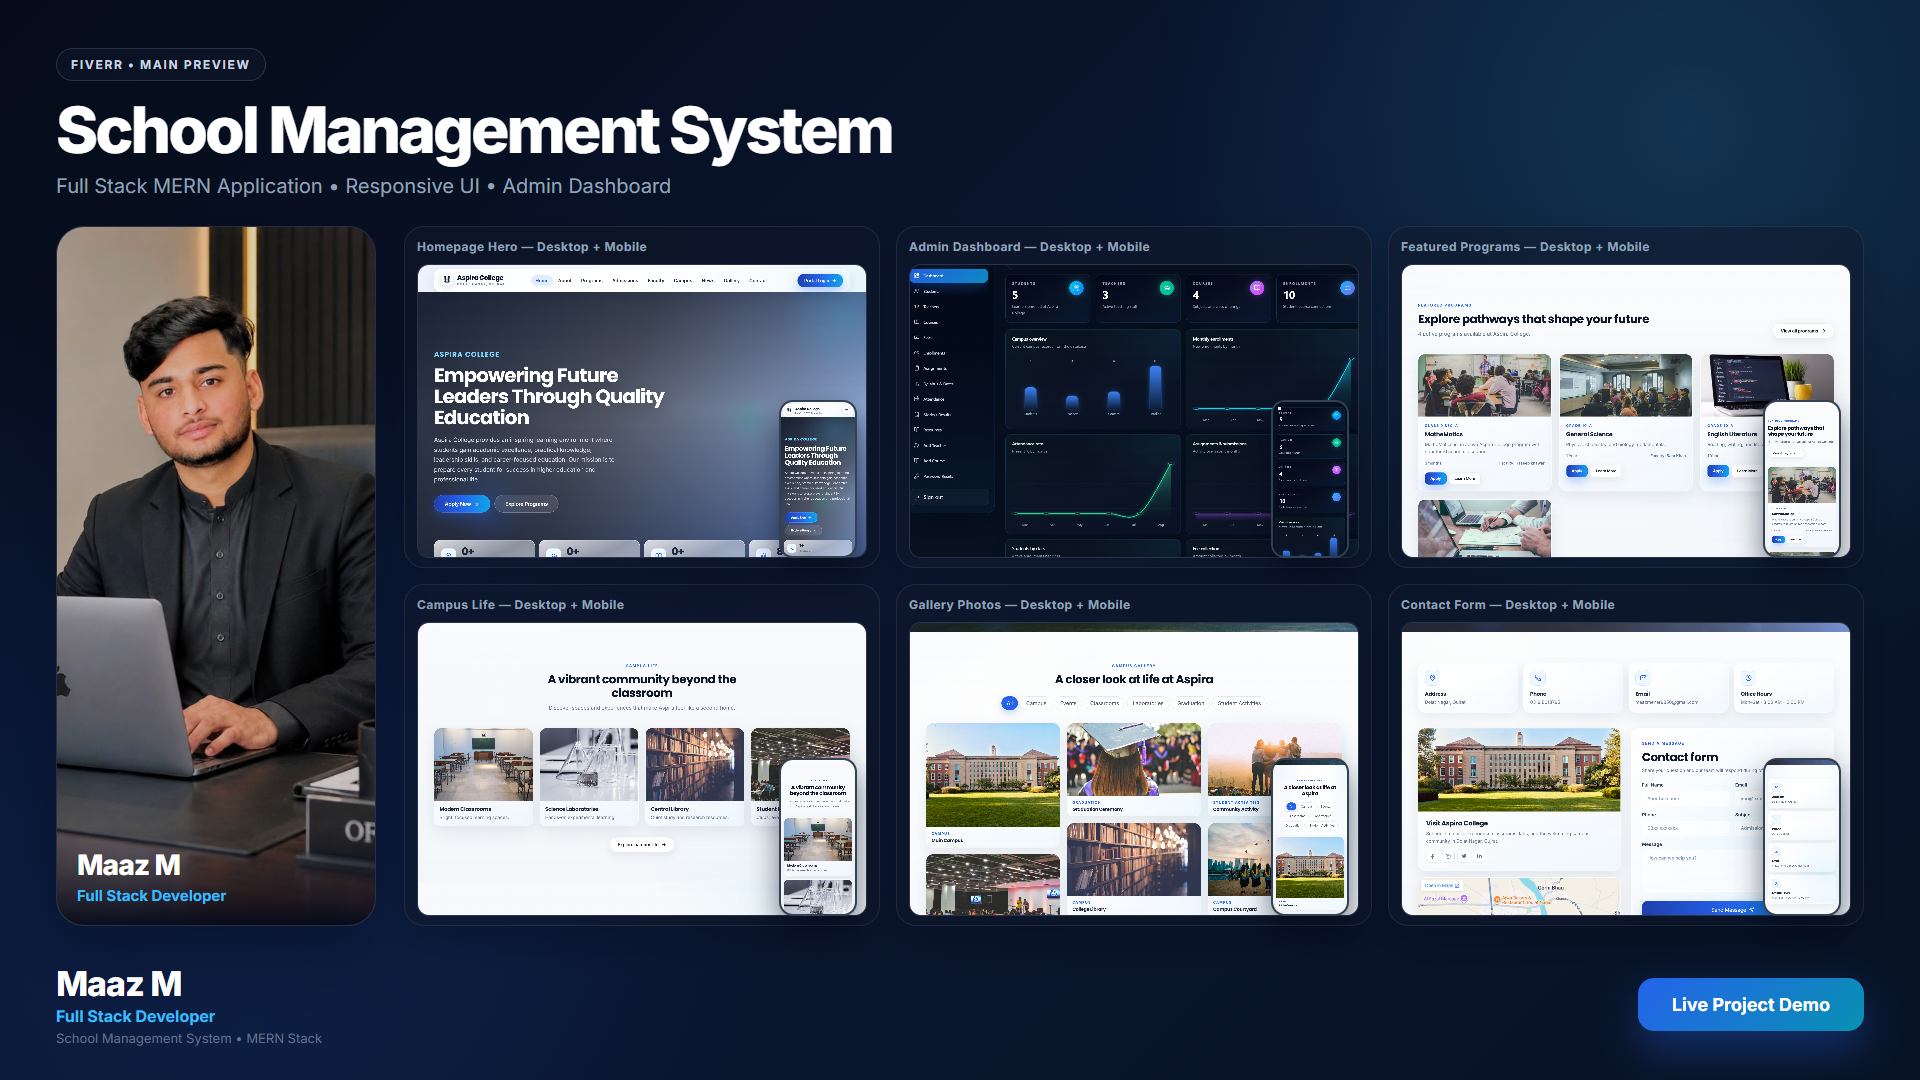
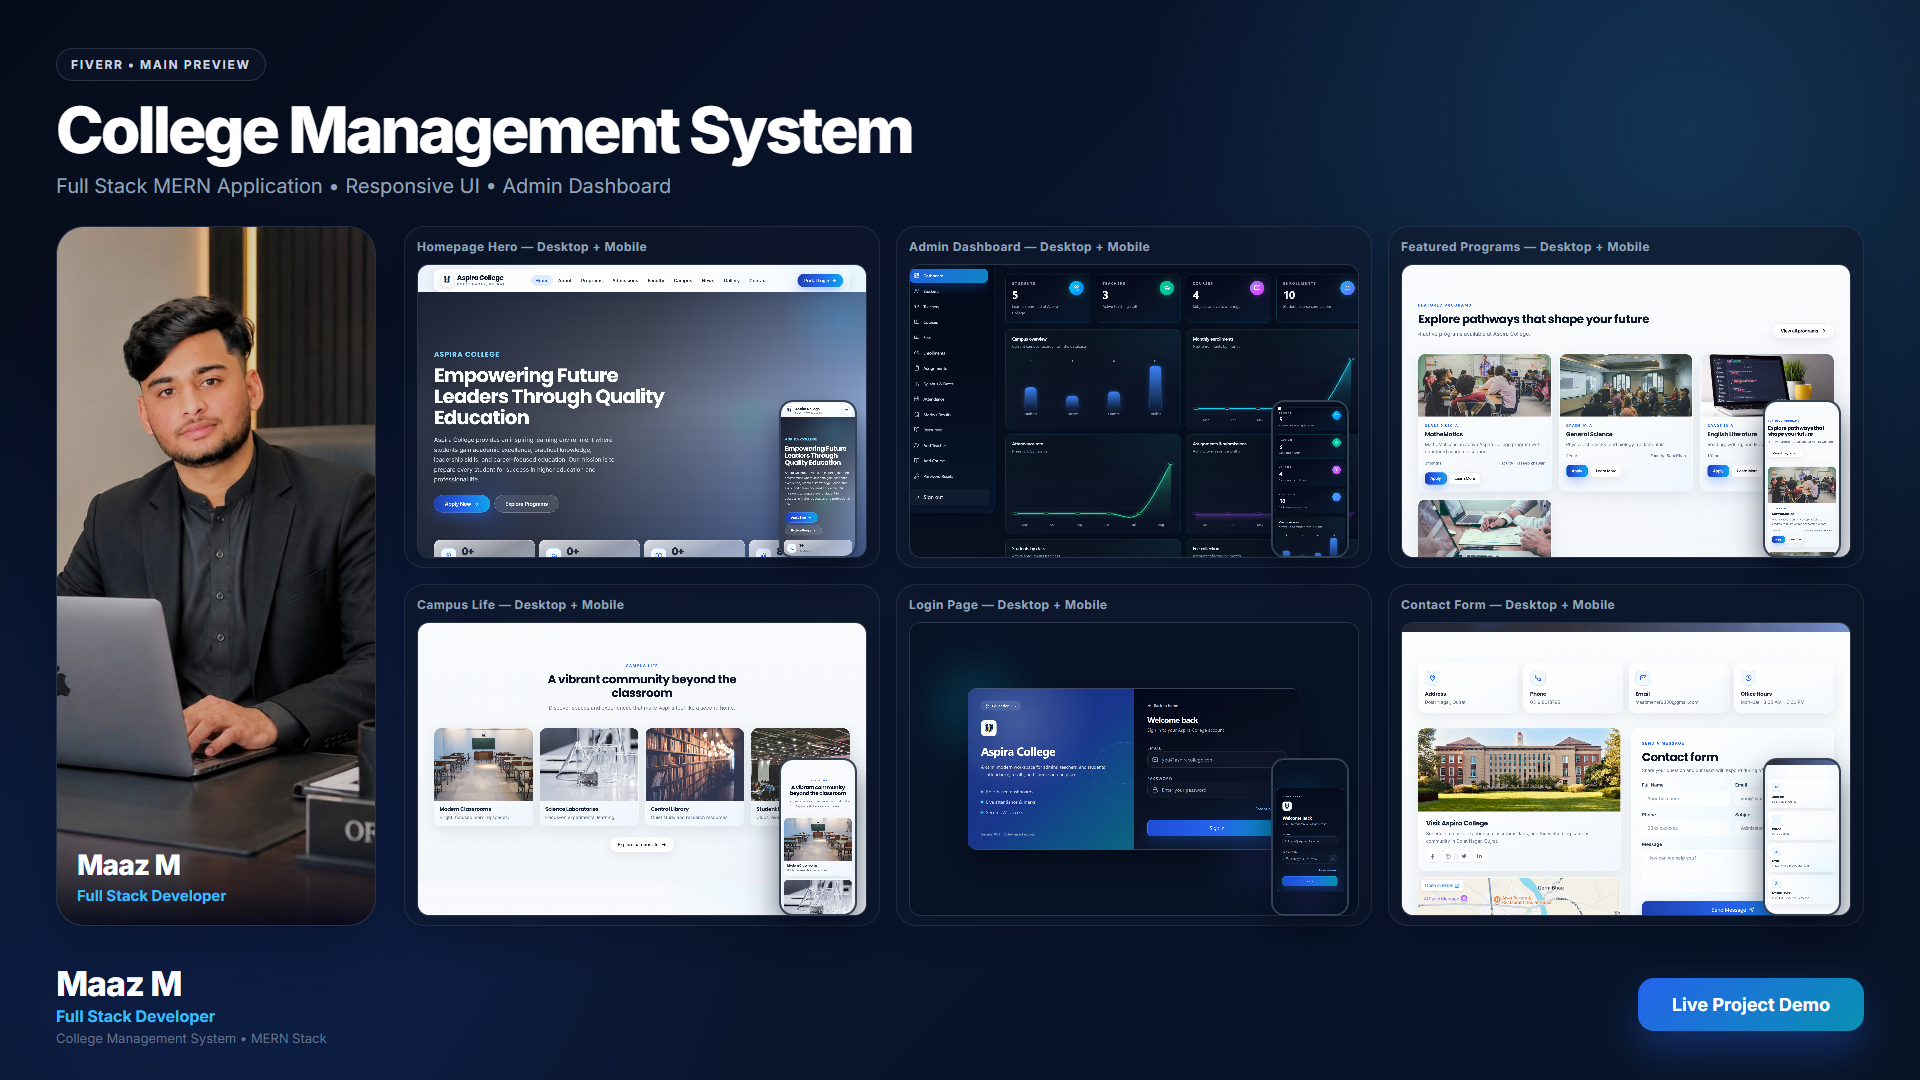
Refactor README and update Fiverr preview assets.
- Simplified project summary in README for clarity.
- Updated titles and badges in capture scripts for consistency.
- Enhanced login page to prevent browser autofill and improved accessibility.
- Removed outdated gallery section and associated assets from Fiverr preview.
- Corrected text formatting issues in HTML files.

Changed region(s): [[0.4688, 0.55, 0.7188, 0.8556], [0.0312, 0.0917, 0.5, 0.1528], [0.0312, 0.9472, 0.1562, 0.9778]]

diff --git a/fiverr-preview/main-preview.html b/fiverr-preview/main-preview.html
@@ -1,4 +1,4 @@
-<!DOCTYPE html>
+<!DOCTYPE html>
 <html lang="en">
 <head>
   <meta charset="UTF-8" />
@@ -104,9 +104,9 @@
 </head>
 <body>
   <div class="wrap">
-    <div class="badge">FIVERR â€¢ MAIN PREVIEW</div>
+    <div class="badge">FIVERR • MAIN PREVIEW</div>
     <h1>College Management System</h1>
-    <p class="subtitle">Full Stack MERN Application â€¢ Responsive UI â€¢ Admin Dashboard</p>
+    <p class="subtitle">Full Stack MERN Application • Responsive UI • Admin Dashboard</p>
 
     <div class="layout">
       <div class="profile">
@@ -118,7 +118,7 @@
       </div>
       <div class="grid">
       <div class="card">
-        <div class="card-label">Homepage Hero â€” Desktop + Mobile</div>
+        <div class="card-label">Homepage Hero — Desktop + Mobile</div>
         <div class="devices">
           <div class="desktop"><img src="assets/landing-hero.png" alt="landing-hero" /></div>
           <div class="phone"><img src="assets/landing-hero-mobile.png" alt="landing-hero mobile" /></div>
@@ -126,7 +126,7 @@
       </div>
     
       <div class="card">
-        <div class="card-label">Admin Dashboard â€” Desktop + Mobile</div>
+        <div class="card-label">Admin Dashboard — Desktop + Mobile</div>
         <div class="devices">
           <div class="desktop"><img src="assets/dashboard.png" alt="dashboard" /></div>
           <div class="phone"><img src="assets/dashboard-mobile.png" alt="dashboard mobile" /></div>
@@ -134,7 +134,7 @@
       </div>
     
       <div class="card">
-        <div class="card-label">Featured Programs â€” Desktop + Mobile</div>
+        <div class="card-label">Featured Programs — Desktop + Mobile</div>
         <div class="devices">
           <div class="desktop"><img src="assets/featured-programs.png" alt="featured-programs" /></div>
           <div class="phone"><img src="assets/featured-programs-mobile.png" alt="featured-programs mobile" /></div>
@@ -142,7 +142,7 @@
       </div>
     
       <div class="card">
-        <div class="card-label">Campus Life â€” Desktop + Mobile</div>
+        <div class="card-label">Campus Life — Desktop + Mobile</div>
         <div class="devices">
           <div class="desktop"><img src="assets/campus-life.png" alt="campus-life" /></div>
           <div class="phone"><img src="assets/campus-life-mobile.png" alt="campus-life mobile" /></div>
@@ -150,15 +150,15 @@
       </div>
     
       <div class="card">
-        <div class="card-label">Gallery Photos â€” Desktop + Mobile</div>
+        <div class="card-label">Login Page — Desktop + Mobile</div>
         <div class="devices">
-          <div class="desktop"><img src="assets/gallery.png" alt="gallery" /></div>
-          <div class="phone"><img src="assets/gallery-mobile.png" alt="gallery mobile" /></div>
+          <div class="desktop"><img src="assets/login.png" alt="login" /></div>
+          <div class="phone"><img src="assets/login-mobile.png" alt="login mobile" /></div>
         </div>
       </div>
     
       <div class="card">
-        <div class="card-label">Contact Form â€” Desktop + Mobile</div>
+        <div class="card-label">Contact Form — Desktop + Mobile</div>
         <div class="devices">
           <div class="desktop"><img src="assets/contact-form.png" alt="contact-form" /></div>
           <div class="phone"><img src="assets/contact-form-mobile.png" alt="contact-form mobile" /></div>

diff --git a/Frontend/src/PAGES/Login.jsx b/Frontend/src/PAGES/Login.jsx
@@ -37,6 +37,12 @@ function Login() {
 
   useEffect(() => {
     resetAuthRedirectState();
+    // Keep fields empty — browsers often autofill saved student credentials after paint.
+    setForm({ email: "", Password: "" });
+    const clearAutofill = window.setTimeout(() => {
+      setForm({ email: "", Password: "" });
+    }, 150);
+    return () => window.clearTimeout(clearAutofill);
   }, []);
 
   const handleChange = (e) => {
@@ -214,6 +220,7 @@ function Login() {
               variants={container}
               initial="hidden"
               animate="show"
+              autoComplete="off"
             >
               <motion.label variants={item} className="block space-y-2">
                 <span className="text-xs font-semibold uppercase tracking-[0.14em] text-slate-500">
@@ -234,11 +241,15 @@ function Login() {
                     name="email"
                     value={form.email}
                     onChange={handleChange}
-                    onFocus={() => setFocused("email")}
+                    onFocus={(e) => {
+                      e.target.removeAttribute("readOnly");
+                      setFocused("email");
+                    }}
                     onBlur={() => setFocused(null)}
                     className="input-glass"
                     placeholder="you@aspiracollege.com"
-                    autoComplete="email"
+                    autoComplete="off"
+                    readOnly
                     required
                   />
                 </motion.div>
@@ -263,11 +274,15 @@ function Login() {
                     name="Password"
                     value={form.Password}
                     onChange={handleChange}
-                    onFocus={() => setFocused("password")}
+                    onFocus={(e) => {
+                      e.target.removeAttribute("readOnly");
+                      setFocused("password");
+                    }}
                     onBlur={() => setFocused(null)}
                     className="input-glass"
                     placeholder="Enter your password"
-                    autoComplete="current-password"
+                    autoComplete="new-password"
+                    readOnly
                     required
                   />
                   <button

diff --git a/fiverr-preview/index.html b/fiverr-preview/index.html
@@ -1,8 +1,8 @@
-<!DOCTYPE html>
+<!DOCTYPE html>
 <html lang="en">
 <head>
   <meta charset="UTF-8" />
-  <title>SchoolMS Fiverr Preview Pack</title>
+  <title>College Management System — Fiverr Preview Pack</title>
   <style>
     body { font-family: Inter, system-ui, sans-serif; background: #0b1220; color: #e2e8f0; padding: 36px; max-width: 920px; margin: 0 auto; }
     h1 { margin-bottom: 8px; }
@@ -13,7 +13,7 @@
 </head>
 <body>
   <h1>College Management System</h1>
-  <p>Premium Fiverr gallery images (1920Ã—1080). Upload these PNGs directly.</p>
-  <a href="fiverr-main-preview.png" target="_blank">fiverr-main-preview.png</a><a href="section-homepage.png" target="_blank">section-homepage.png</a><a href="section-admin-dashboard.png" target="_blank">section-admin-dashboard.png</a><a href="section-featured-programs.png" target="_blank">section-featured-programs.png</a><a href="section-campus-life.png" target="_blank">section-campus-life.png</a><a href="section-gallery.png" target="_blank">section-gallery.png</a><a href="section-contact-form.png" target="_blank">section-contact-form.png</a>
+  <p>Premium Fiverr gallery images (1920×1080). Upload these PNGs directly.</p>
+  <a href="fiverr-main-preview.png" target="_blank">fiverr-main-preview.png</a><a href="section-homepage.png" target="_blank">section-homepage.png</a><a href="section-admin-dashboard.png" target="_blank">section-admin-dashboard.png</a><a href="section-featured-programs.png" target="_blank">section-featured-programs.png</a><a href="section-campus-life.png" target="_blank">section-campus-life.png</a><a href="section-login.png" target="_blank">section-login.png</a><a href="section-contact-form.png" target="_blank">section-contact-form.png</a>
 </body>
 </html>

diff --git a/fiverr-preview/section-login.html b/fiverr-preview/section-login.html
@@ -2,7 +2,7 @@
 <html lang="en">
 <head>
   <meta charset="UTF-8" />
-  <title>Gallery Photos — Desktop + Mobile</title>
+  <title>Login Page — Desktop + Mobile</title>
   <link href="https://fonts.googleapis.com/css2?family=Inter:wght@400;500;600;700;800&display=swap" rel="stylesheet" />
   <style>
     
@@ -69,17 +69,17 @@
 </head>
 <body>
   <div class="wrap">
-    <div class="pill">GALLERY</div>
-    <h1>Gallery Photos — Desktop + Mobile</h1>
-    <p class="sub">Campus photo showcase</p>
+    <div class="pill">AUTH</div>
+    <h1>Login Page — Desktop + Mobile</h1>
+    <p class="sub">Secure portal sign-in for admin, teacher &amp; student</p>
     <div class="stage">
       <div class="monitor">
         <div class="monitor-inner">
-          <img src="assets/gallery.png" alt="Desktop" />
+          <img src="assets/login.png" alt="Desktop" />
         </div>
       </div>
       <div class="phone">
-        <img src="assets/gallery-mobile.png" alt="Mobile" />
+        <img src="assets/login-mobile.png" alt="Mobile" />
       </div>
     </div>
   </div>

diff --git a/README.md b/README.md
@@ -6,17 +6,9 @@ Built with React, Node.js, Express, and MongoDB. Designed for real campus operat
 
 ---
 
-## Project Summary (for portfolio / Fiverr / ChatGPT prompts)
-
-Use this short summary when writing a gig description, Behance case study, or ChatGPT prompt:
+## Project Summary (for portfolio / Fiverr)
 
 > A complete College Management System built with the MERN stack. It includes a modern public college website (Home, Academics, Admissions, Gallery, Contact, and more) and a secure multi-role portal for Admin, Teacher, and Student. Core modules cover dashboards & analytics, student/teacher management, courses, enrollments, attendance, marks/results, fee tracking, assignments, academic resources, password-reset approvals, and PDF export. The UI is fully responsive with a premium dark admin workspace and polished public marketing pages.
-
-**Suggested ChatGPT prompt:**
-
-```text
-Using the README of my College Management System (MERN + React + Express + MongoDB), write a professional Fiverr gig description and portfolio project summary. Highlight: public college website + admin/teacher/student dashboards, attendance, grades, fees, assignments, responsive UI, and full-stack delivery. Keep it clear, client-friendly, and high-converting. Do not invent features that are not in the README.
-```
 
 ---
 
@@ -273,7 +265,7 @@ Includes:
 - Main project cover (`fiverr-main-preview.png`)
 - Homepage hero
 - Admin dashboard
-- Featured programs, campus life, gallery, and contact form section shots
+- Featured programs, campus life, login, and contact form section shots
 
 Regenerate (dev server must be running):
 
